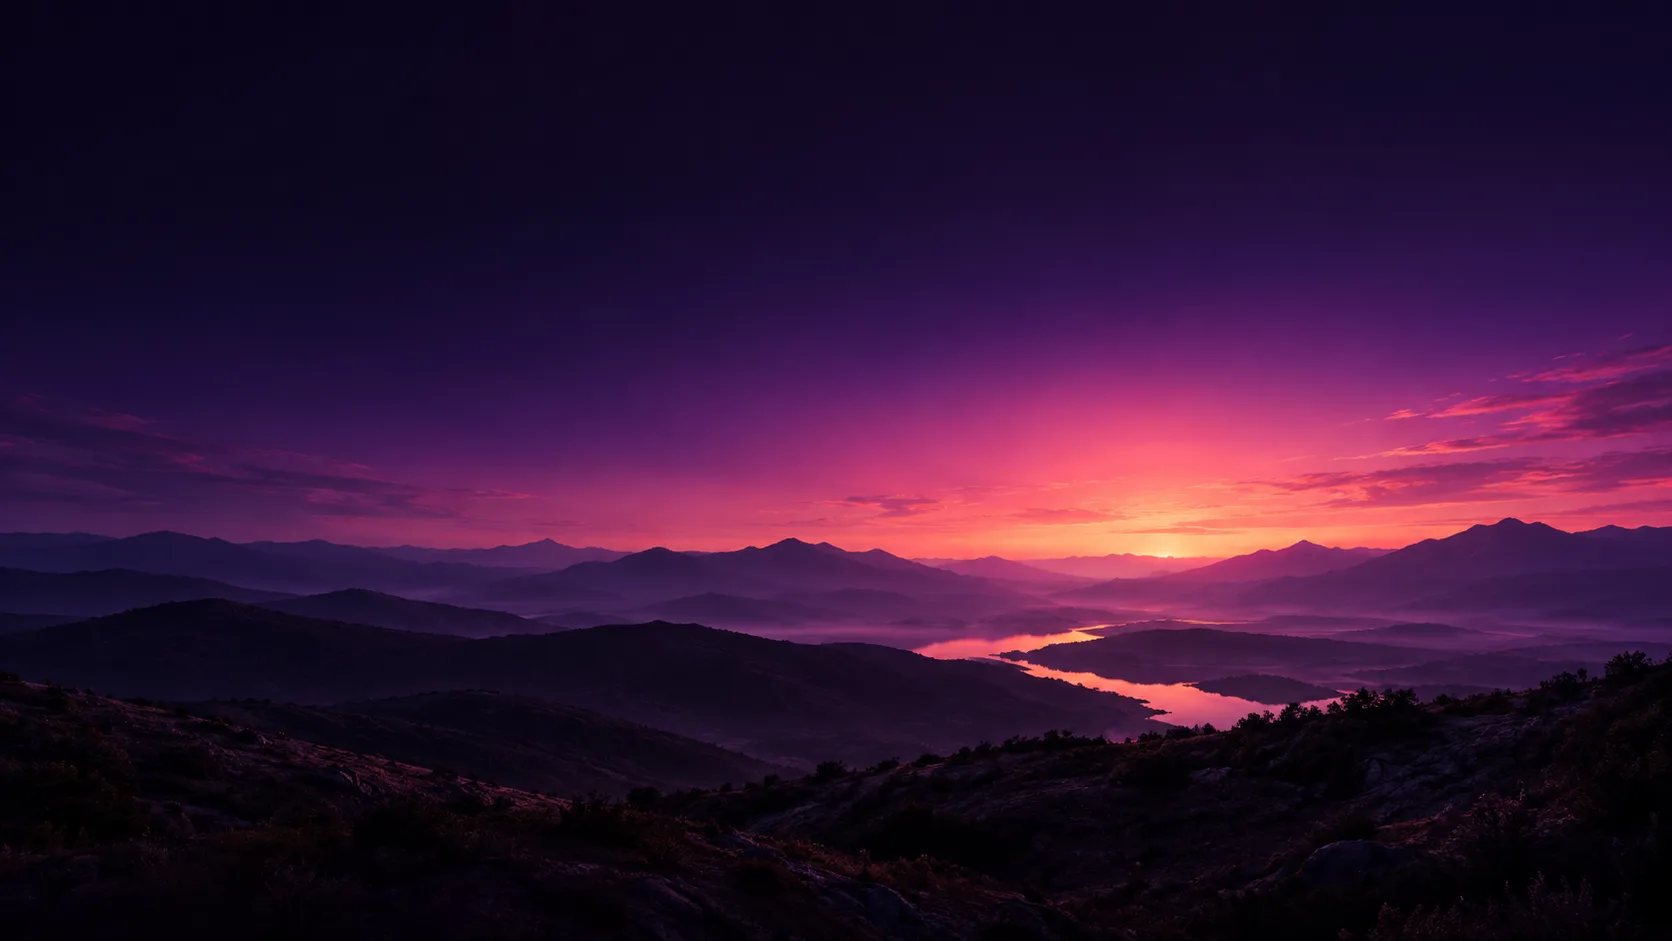
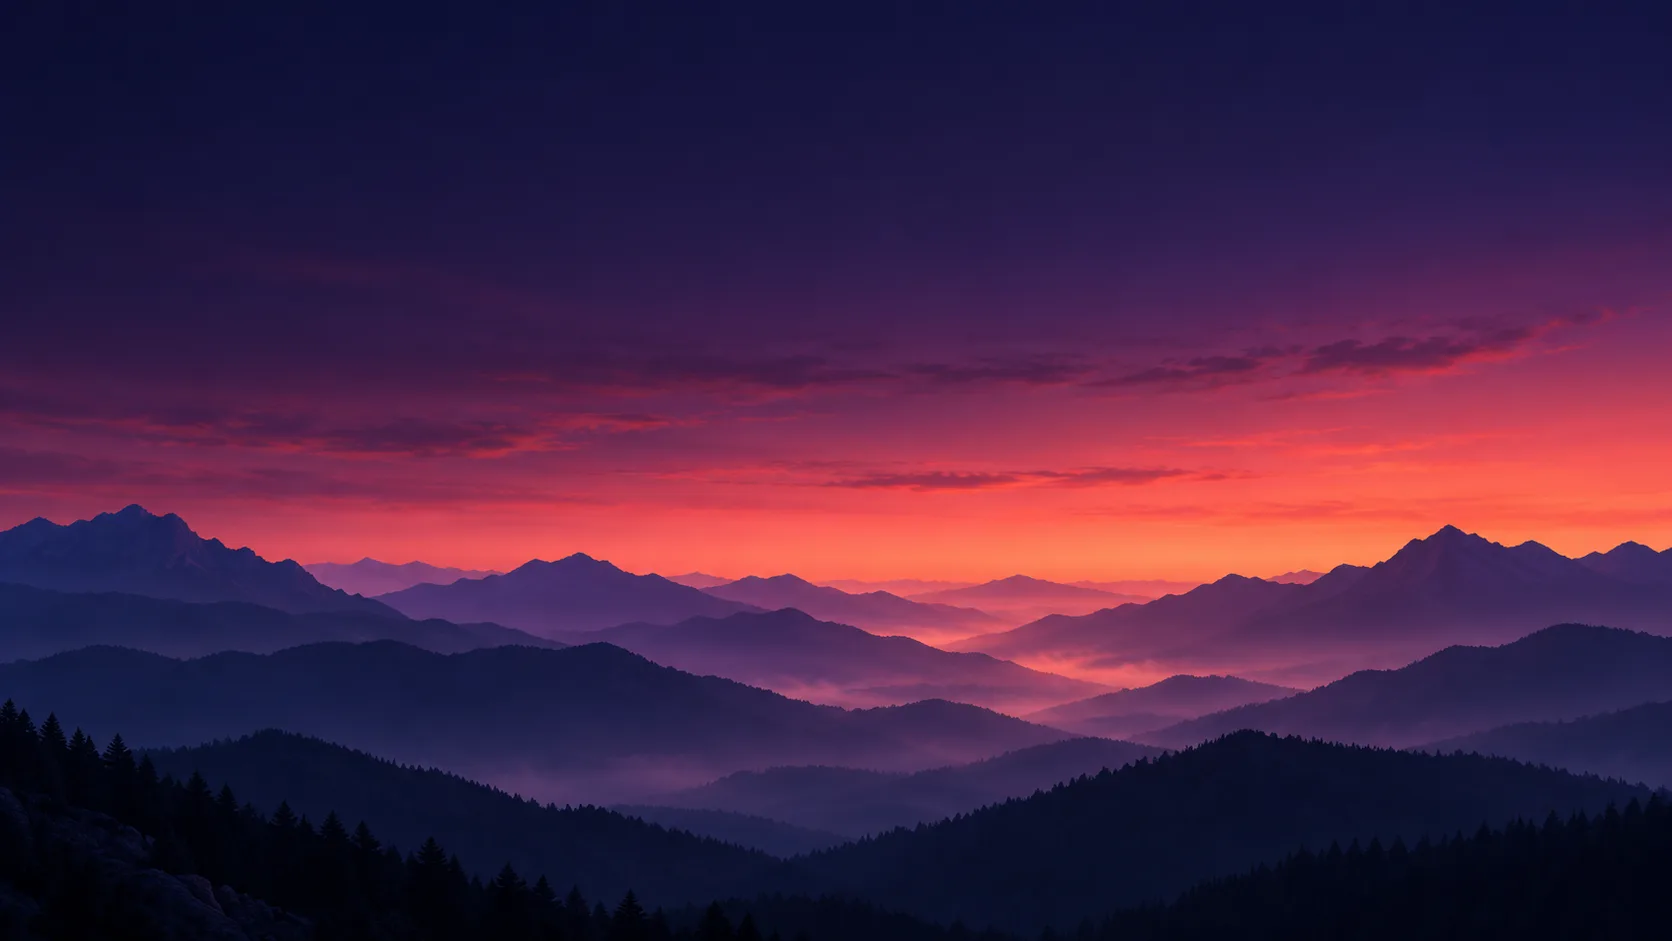
feat(site): hero background regenerated with GPT Image 2 (Codex), shorter status chip

diff --git a/docs/site/index.html b/docs/site/index.html
@@ -77,7 +77,7 @@ FORM: One owner-pinned reference-based hero and first transition. Second referen
             >
           </div>
           <p class="availability" data-release-status>
-            Free and open source · Linux beta · Mac coming soon
+            Free and open source · Linux beta
           </p>
         </div>
         <figure class="app-showcase">
